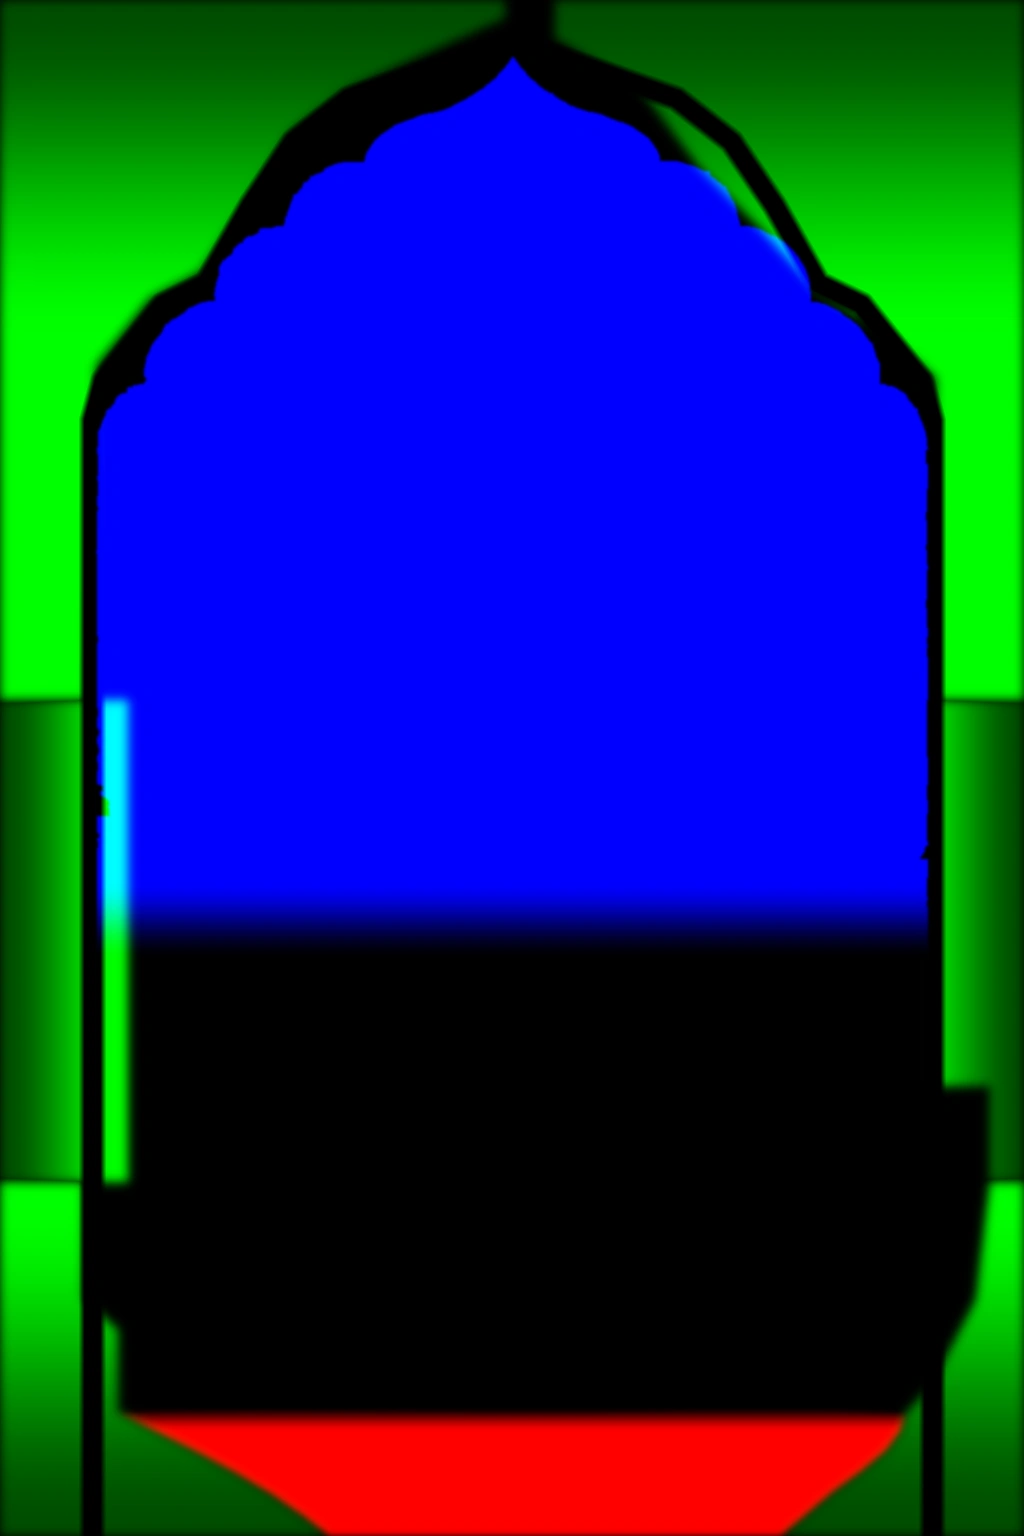
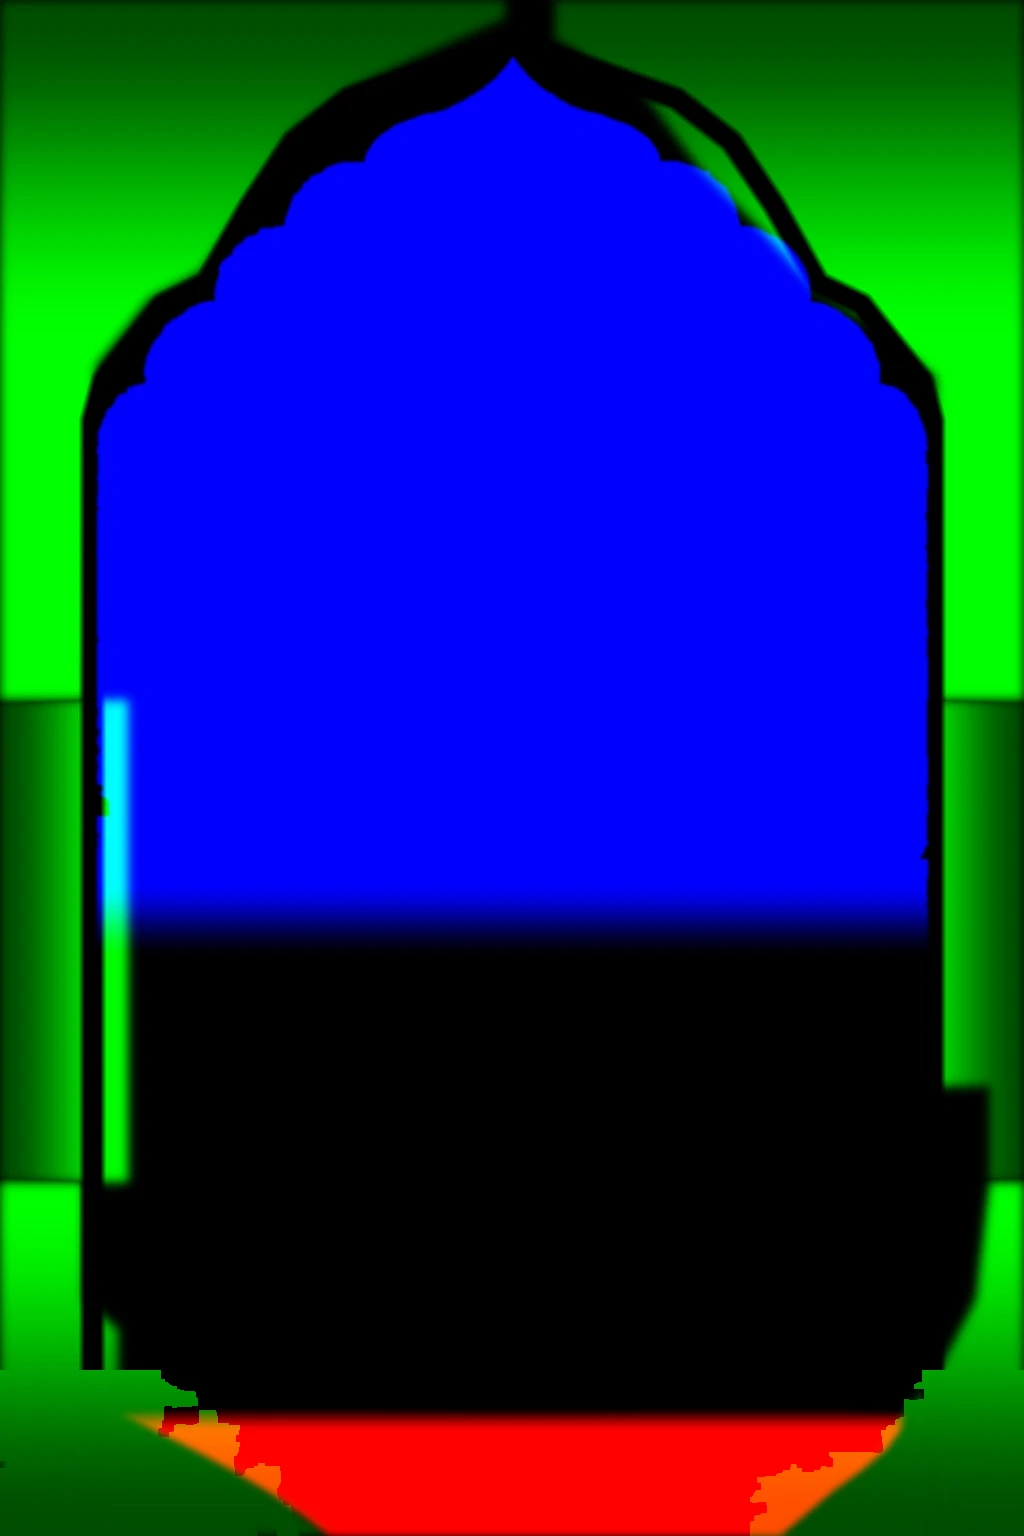
Flower movement +50%; keep the corner flowers crisp over the water

diff --git a/src/animation/ambient.ts b/src/animation/ambient.ts
@@ -52,6 +52,27 @@ void main() {
   vec4 m = texture2D(uMasks, vUv);
   float t = uTime;
 
+  // Flowers, smoothed over ~22 px: drives the sway, and keeps the water off
+  // the petals so the corner flowers stay crisp where they meet the river.
+  float wg = 0.0;
+  for (int i = -1; i <= 1; i++) for (int j = -1; j <= 1; j++) {
+    wg += texture2D(uMasks, vUv + vec2(float(i), float(j)) * 22.0 / SIZE).g;
+  }
+  wg /= 9.0;
+  float onFlowers = smoothstep(0.02, 0.12, wg);
+  // For the sway, each flower and a margin around it move as one solid piece:
+  // the weight is a dilation that falls off gently 15-60 px out, so leaf tips
+  // never stretch or smear; only plain surroundings bend.
+  float sw = texture2D(uMasks, vUv).g;
+  for (int k = 0; k < 8; k++) {
+    float ang = float(k) * 0.7854;
+    vec2 dir = vec2(cos(ang), sin(ang)) / SIZE;
+    sw = max(sw, 0.97 * texture2D(uMasks, vUv + dir * 15.0).g);
+    sw = max(sw, 0.78 * texture2D(uMasks, vUv + dir * 30.0).g);
+    sw = max(sw, 0.48 * texture2D(uMasks, vUv + dir * 45.0).g);
+    sw = max(sw, 0.20 * texture2D(uMasks, vUv + dir * 60.0).g);
+  }
+
   // Water: a seamless 10 s loop. Every motion runs at a whole number of
   // cycles per loop (1, 2, 3, 4 or 6), so the last frame flows into the
   // first. Thin horizontal ripples travel mostly left to right, with one
@@ -71,7 +92,10 @@ void main() {
   float r3 = 0.090 * rp.x + 0.70 * rp.y + p3 - 6.0 * w * t;   // fine, right (1.7 s)
   float r4 = 0.060 * rp.x + 0.55 * rp.y - p1 - 4.0 * w * t;   // medium, right (2.5 s)
   float env = 0.65 + 0.35 * sin(w * t + p2 * 1.3);            // ripples grow and fade (10 s)
-  float wa = uRamp * m.r * mix(0.6, 1.0, depth) * env;
+  // open water only: not on the flowers, nor where the sway carries a leaf
+  // tip out over the river (so the tips are never rippled into a blur)
+  float wet = m.r * (1.0 - max(onFlowers, smoothstep(0.15, 0.45, sw)));
+  float wa = uRamp * wet * mix(0.6, 1.0, depth) * env;
   vec2 water = wa * vec2(
     9.0 * (0.42 * sin(r1) + 0.24 * sin(r2) + 0.14 * sin(r3) + 0.20 * sin(r4)),
     2.6 * (0.5 * sin(r2 + 1.3) + 0.5 * sin(r3 + 0.6)));
@@ -82,24 +106,20 @@ void main() {
   // is smoothed over the region (so outlines move with their flowers), grows
   // toward the tips, and the wind is a slow wave across the card, so the left
   // and right corners swing out of step. Only a whisper of flutter.
-  float wg = 0.0;
-  for (int i = -1; i <= 1; i++) for (int j = -1; j <= 1; j++) {
-    wg += texture2D(uMasks, vUv + vec2(float(i), float(j)) * 22.0 / SIZE).g;
-  }
-  wg /= 9.0;
+
   // The gold arch stays perfectly still: no pixel near it moves, so it can
-  // never be pulled along (the sway reaches ~9 px, the guard ~12 px).
+  // never be pulled along (the sway reaches ~13 px, the guard ~16 px).
   float arch = texture2D(uArch, vUv).r;                     // the gold frame line only
   for (int k = 0; k < 8; k++) {
     float ang = float(k) * 0.7854;
     vec2 dir = vec2(cos(ang), sin(ang)) / SIZE;
-    arch = max(arch, texture2D(uArch, vUv + dir * 6.0).r);
-    arch = max(arch, 0.85 * texture2D(uArch, vUv + dir * 12.0).r);
+    arch = max(arch, texture2D(uArch, vUv + dir * 8.0).r);
+    arch = max(arch, 0.85 * texture2D(uArch, vUv + dir * 16.0).r);
   }
-  wg *= 1.0 - smoothstep(0.15, 0.6, arch);
+  sw *= 1.0 - smoothstep(0.15, 0.6, arch);
   // anchored at the card's edge, where the plants grow from (and nothing is
   // ever sampled from outside the painting)
-  wg *= smoothstep(0.0, 26.0, px.x) * smoothstep(0.0, 26.0, SIZE.x - px.x) * smoothstep(0.0, 26.0, px.y) * smoothstep(0.0, 26.0, SIZE.y - px.y);
+  sw *= smoothstep(0.0, 26.0, px.x) * smoothstep(0.0, 26.0, SIZE.x - px.x) * smoothstep(0.0, 26.0, px.y) * smoothstep(0.0, 26.0, SIZE.y - px.y);
   // A barely-there spring breeze: one slow sway every 20 s, plus a softer
   // 27 s drift in the smaller flowers and leaves. Left and right lean inward
   // as mirror images, the right about 3 s behind the left, and the breeze
@@ -112,7 +132,7 @@ void main() {
   float primary = sin(TAU / 20.0 * t - lag);
   float secondary = sin(TAU / 27.0 * t - lag * 1.3 - 1.7 + px.x * 0.002);
   float sway = 0.82 * primary + 0.18 * secondary;
-  vec2 foliage = 8.75 * uRamp * wg * vec2(side * sway, 0.05 * sway * sway);
+  vec2 foliage = 13.125 * uRamp * sw * vec2(side * sway, 0.05 * sway * sway);
 
   vec2 uv = vUv - (water + foliage) / SIZE;
   vec3 base = texture2D(uArt, uv).rgb;
@@ -121,16 +141,16 @@ void main() {
   // brightness follows the same ripples, so streaks widen, narrow, part and
   // rejoin as the water moves; the brightest flicks appear briefly where two
   // ripples crest together. Only the existing colours get lighter or darker.
-  if (m.r > 0.0) {
+  if (wet > 0.0) {
     float lum = dot(base, vec3(0.2126, 0.7152, 0.0722));
-    float glow = smoothstep(0.5, 0.82, lum) * m.r * uRamp;
+    float glow = smoothstep(0.5, 0.82, lum) * wet * uRamp;
     float shimmer = 0.5 * sin(r1 + 0.8) + 0.3 * sin(r3 + 2.1) + 0.2 * sin(r2 + 0.4);
     float crest = pow(max(0.0, sin(r1) * sin(r4)), 3.0);
     base *= 1.0 + glow * (0.26 * shimmer * env + 0.22 * crest + 0.04);
     // the darker water between reflections breathes very slightly
-    base *= 1.0 - (1.0 - smoothstep(0.35, 0.6, lum)) * m.r * uRamp * 0.05 * sin(r2 + 2.5);
+    base *= 1.0 - (1.0 - smoothstep(0.35, 0.6, lum)) * wet * uRamp * 0.05 * sin(r2 + 2.5);
     // light and shade on each ripple's slope
-    base *= 1.0 + m.r * uRamp * 0.09 * slope * env;
+    base *= 1.0 + wet * uRamp * 0.09 * slope * env;
   }
 
   // Sky: drifts slowly as one body, with a faint rise and fall.
